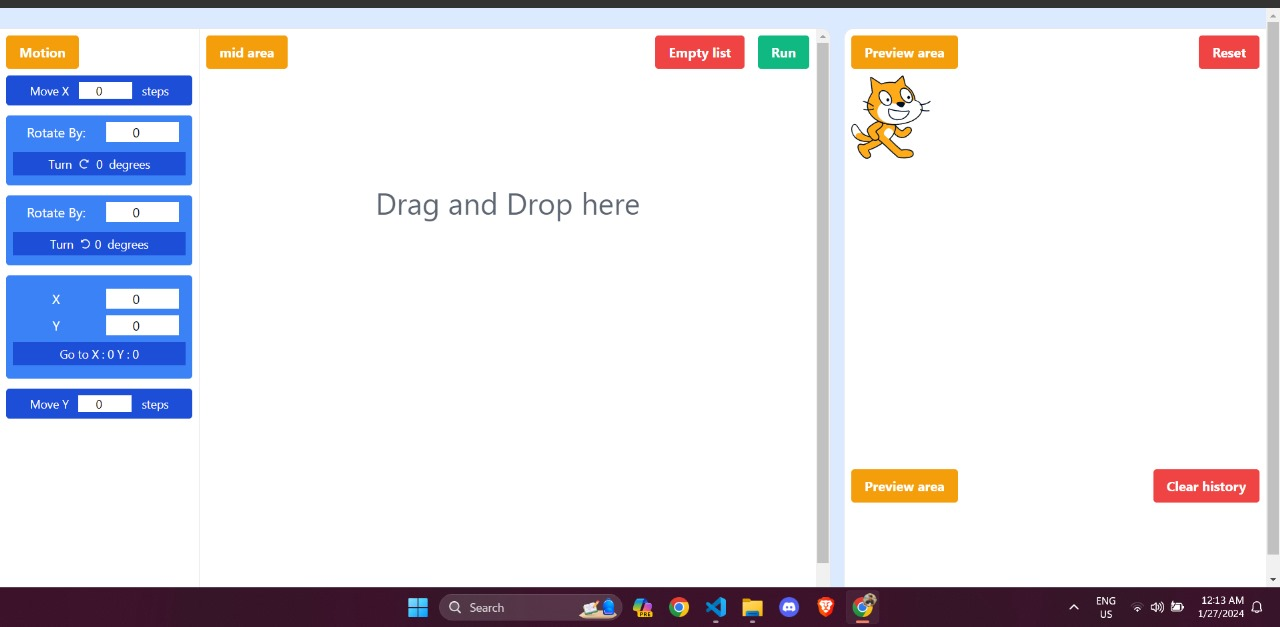
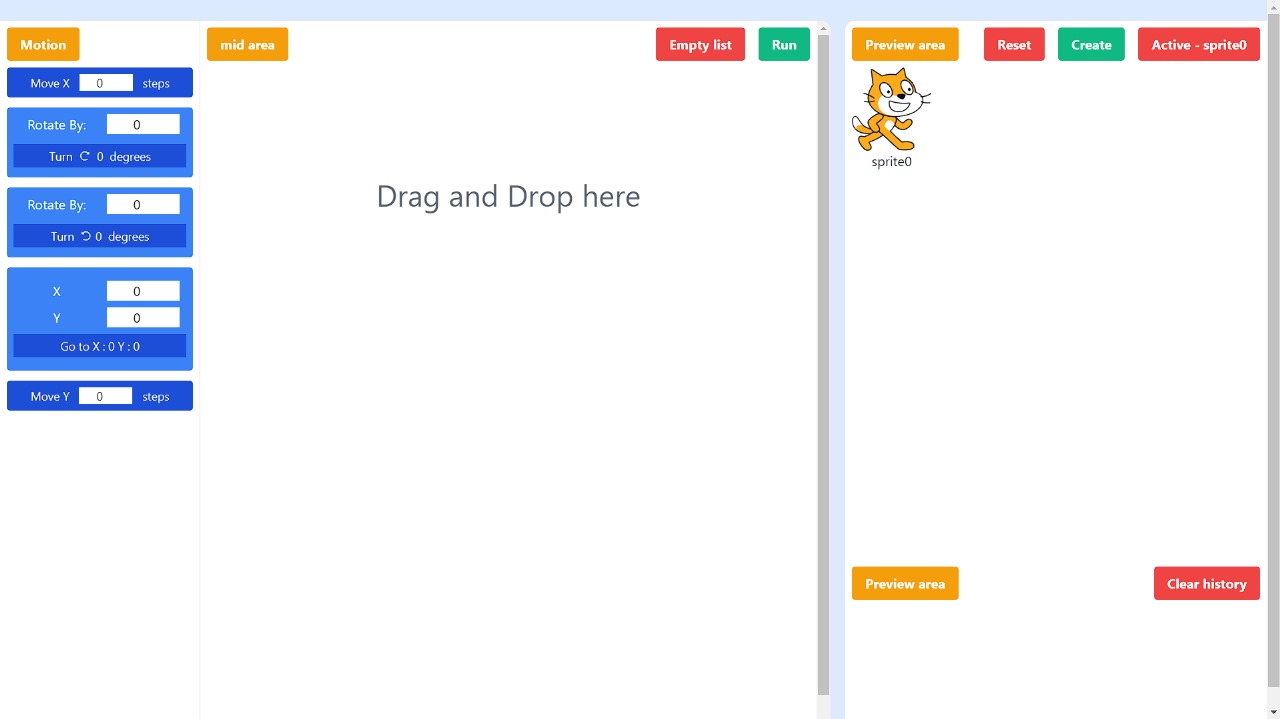
output images changed

diff --git a/README.md b/README.md
@@ -4,7 +4,7 @@ Frontend Assignment
 
 ## Introduction
 
-Scratch Clone is a project aimed at replicating the fun and interactive motion features with a cat character. Explore and play with various motion scripts to bring your cat to life in this user-friendly visual programming environment.
+Scratch Clone is a project aimed at replicating the fun and interactive motion features with a Sprite character. Explore and play with various motion scripts to bring your Sprite to life in this user-friendly visual programming environment.
 
 ## Features
 
@@ -12,16 +12,18 @@ Scratch Clone is a project aimed at replicating the fun and interactive motion f
 - Play the motion script by clicking on run button
 - Reorder the motion blocks in the script
 - See the history of all the motion scripts created
-- Move Cat in X direction
-- Move Cat in Y direction
-- Rotate Cat in both directions
-- Change cat poition and send it anywhere on the screen
+- Create multiple Spites and run motion scripts on them
+- Move Sprite in X direction
+- Move Sprite in Y direction
+- Rotate Sprite in both directions
+- Change Sprite poition and send it anywhere on the screen
 
 ## NOTE
 
 - At a time only one motion script can be created and run.
 - The motion script can be created by dragging and dropping the motion blocks from the left panel to the mid panel.
-- All the motions are implemented together on the cat.
+- All the motions are implemented one by one(delay of 0.5sec) on the active Sprite.
+- To change the active Sprite, choose the desired sprite from the dropdown in the preview area.
 - The motion script can be run by clicking on the run button.
 - Individual motion can be run and tested by clicking on the respective motion block.
 - The motion script can be reordered by dragging and dropping the motion blocks in the mid panel.
